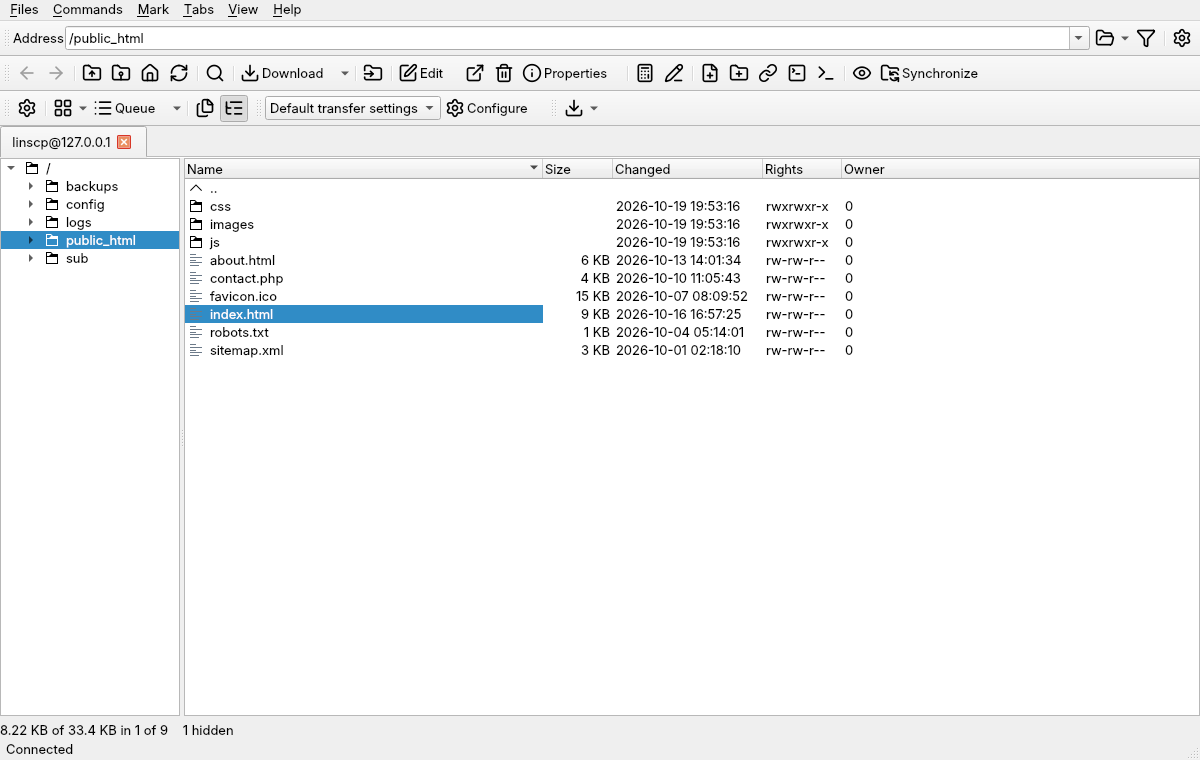
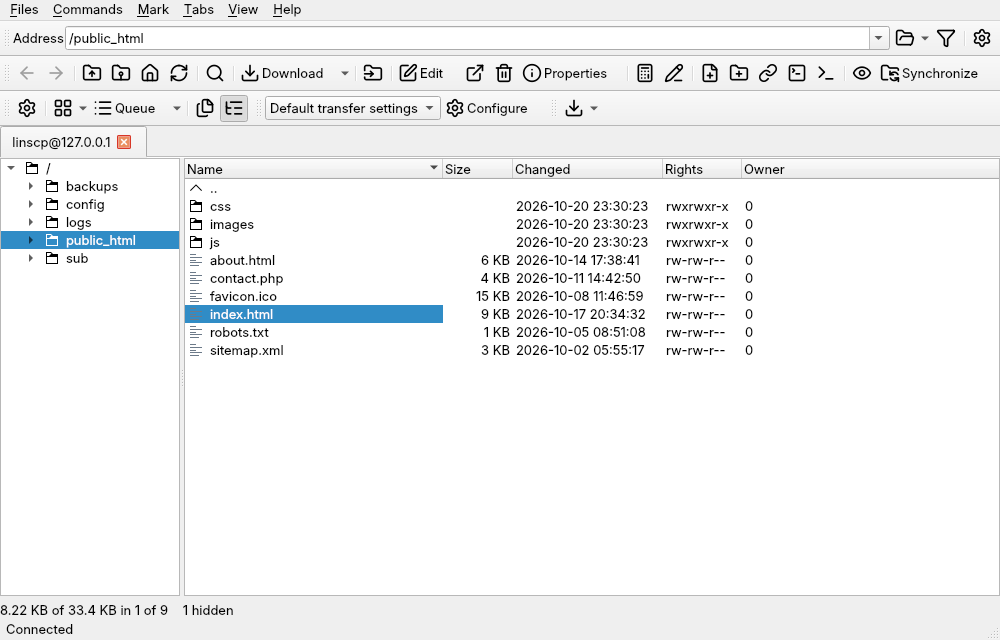
docs: screenshots within 1000x700, the Commander's columns sized to fit
Flathub's limit for metainfo screenshots. The main window is 1000x640; Columns > Size Automatically keeps the file names readable in two panels.

Changed region(s): [[0.0, 0.0, 1.0, 0.5625], [0.0, 0.9062, 0.248, 1.0]]

diff --git a/port/tests/test_qt_gui.cpp b/port/tests/test_qt_gui.cpp
@@ -5747,7 +5747,8 @@ void ExplorerTest(const char * Port, const QString & Directory)
 
 // The README's screenshots (doc/screenshots): the Commander and the
 // Explorer on a session with plausible files, the Site Manager, Preferences;
-// the light theme, at a fixed size. Not a ctest: run by hand,
+// the light theme, at a fixed size within Flathub's 1000x700 for the
+// metainfo's screenshots. Not a ctest: run by hand,
 //   run_qt_session.py test_qt_gui screenshots /ini=nul {port} {tmp}/local <out> [<locale> <core's translations>] -platform offscreen
 // With a locale, in that language (to look a translation over).
 void Screenshots(const char * Port, const QString & Directory, const QString & Out, const QString & Locale, const QString & Translations)
@@ -5829,7 +5830,7 @@ void Screenshots(const char * Port, const QString & Directory, const QString & O
     CoreBridge::ChangePreferences([Explorer](CoreBridge::TPreferences & P) { P.ExplorerInterface = Explorer; });
     MainWindow Window(CoreBridge::Info());
     Frontend.SetWindow(&Window);
-    Window.resize(1200, 760);
+    Window.resize(1000, 640);
     Window.show();
     TResponder Responder;
     Responder.Frontend = &Frontend;
@@ -5846,6 +5847,13 @@ void Screenshots(const char * Port, const QString & Directory, const QString & O
       Window.Local()->ChangeDirectory(Local.filePath(QStringLiteral("website")));
       Window.Panel()->Select({ QStringLiteral("about.html"), QStringLiteral("contact.php") });
       Window.ActivatePanel(false);
+      // Two panels in 1000 pixels: Columns > Size Automatically, the names in
+      // full.
+      QTest::qWait(400);
+      for (FileView * View : Window.findChildren<FileView *>())
+      {
+        View->SizeColumnsAutomatically();
+      }
       Shot(&Window, QStringLiteral("commander.png"));
       {
         SiteManager Sites(&Window);
